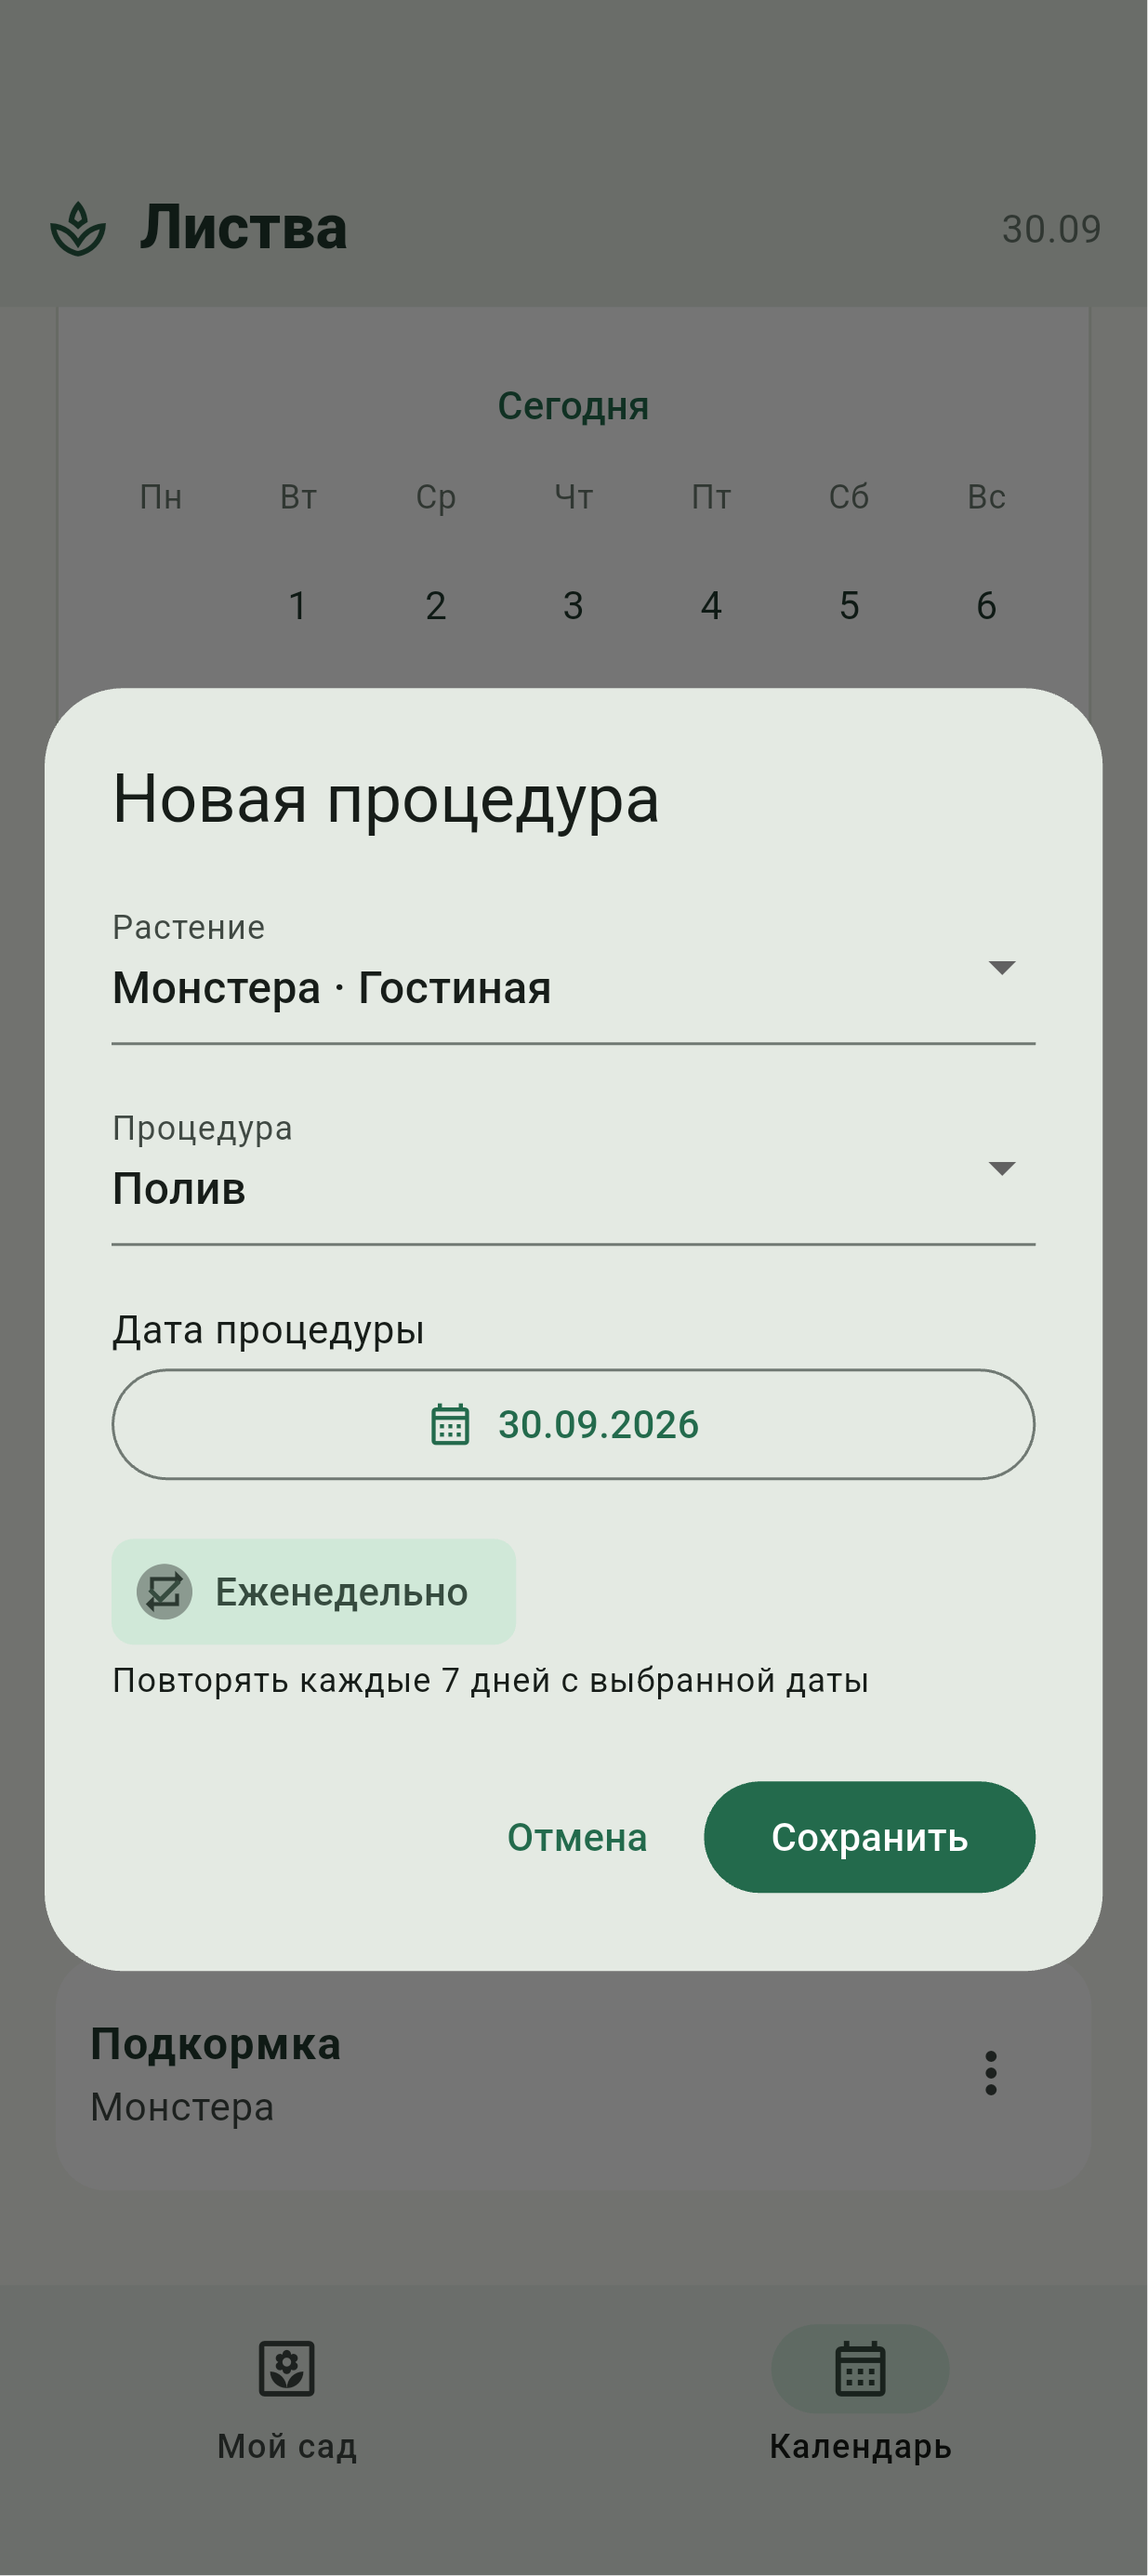
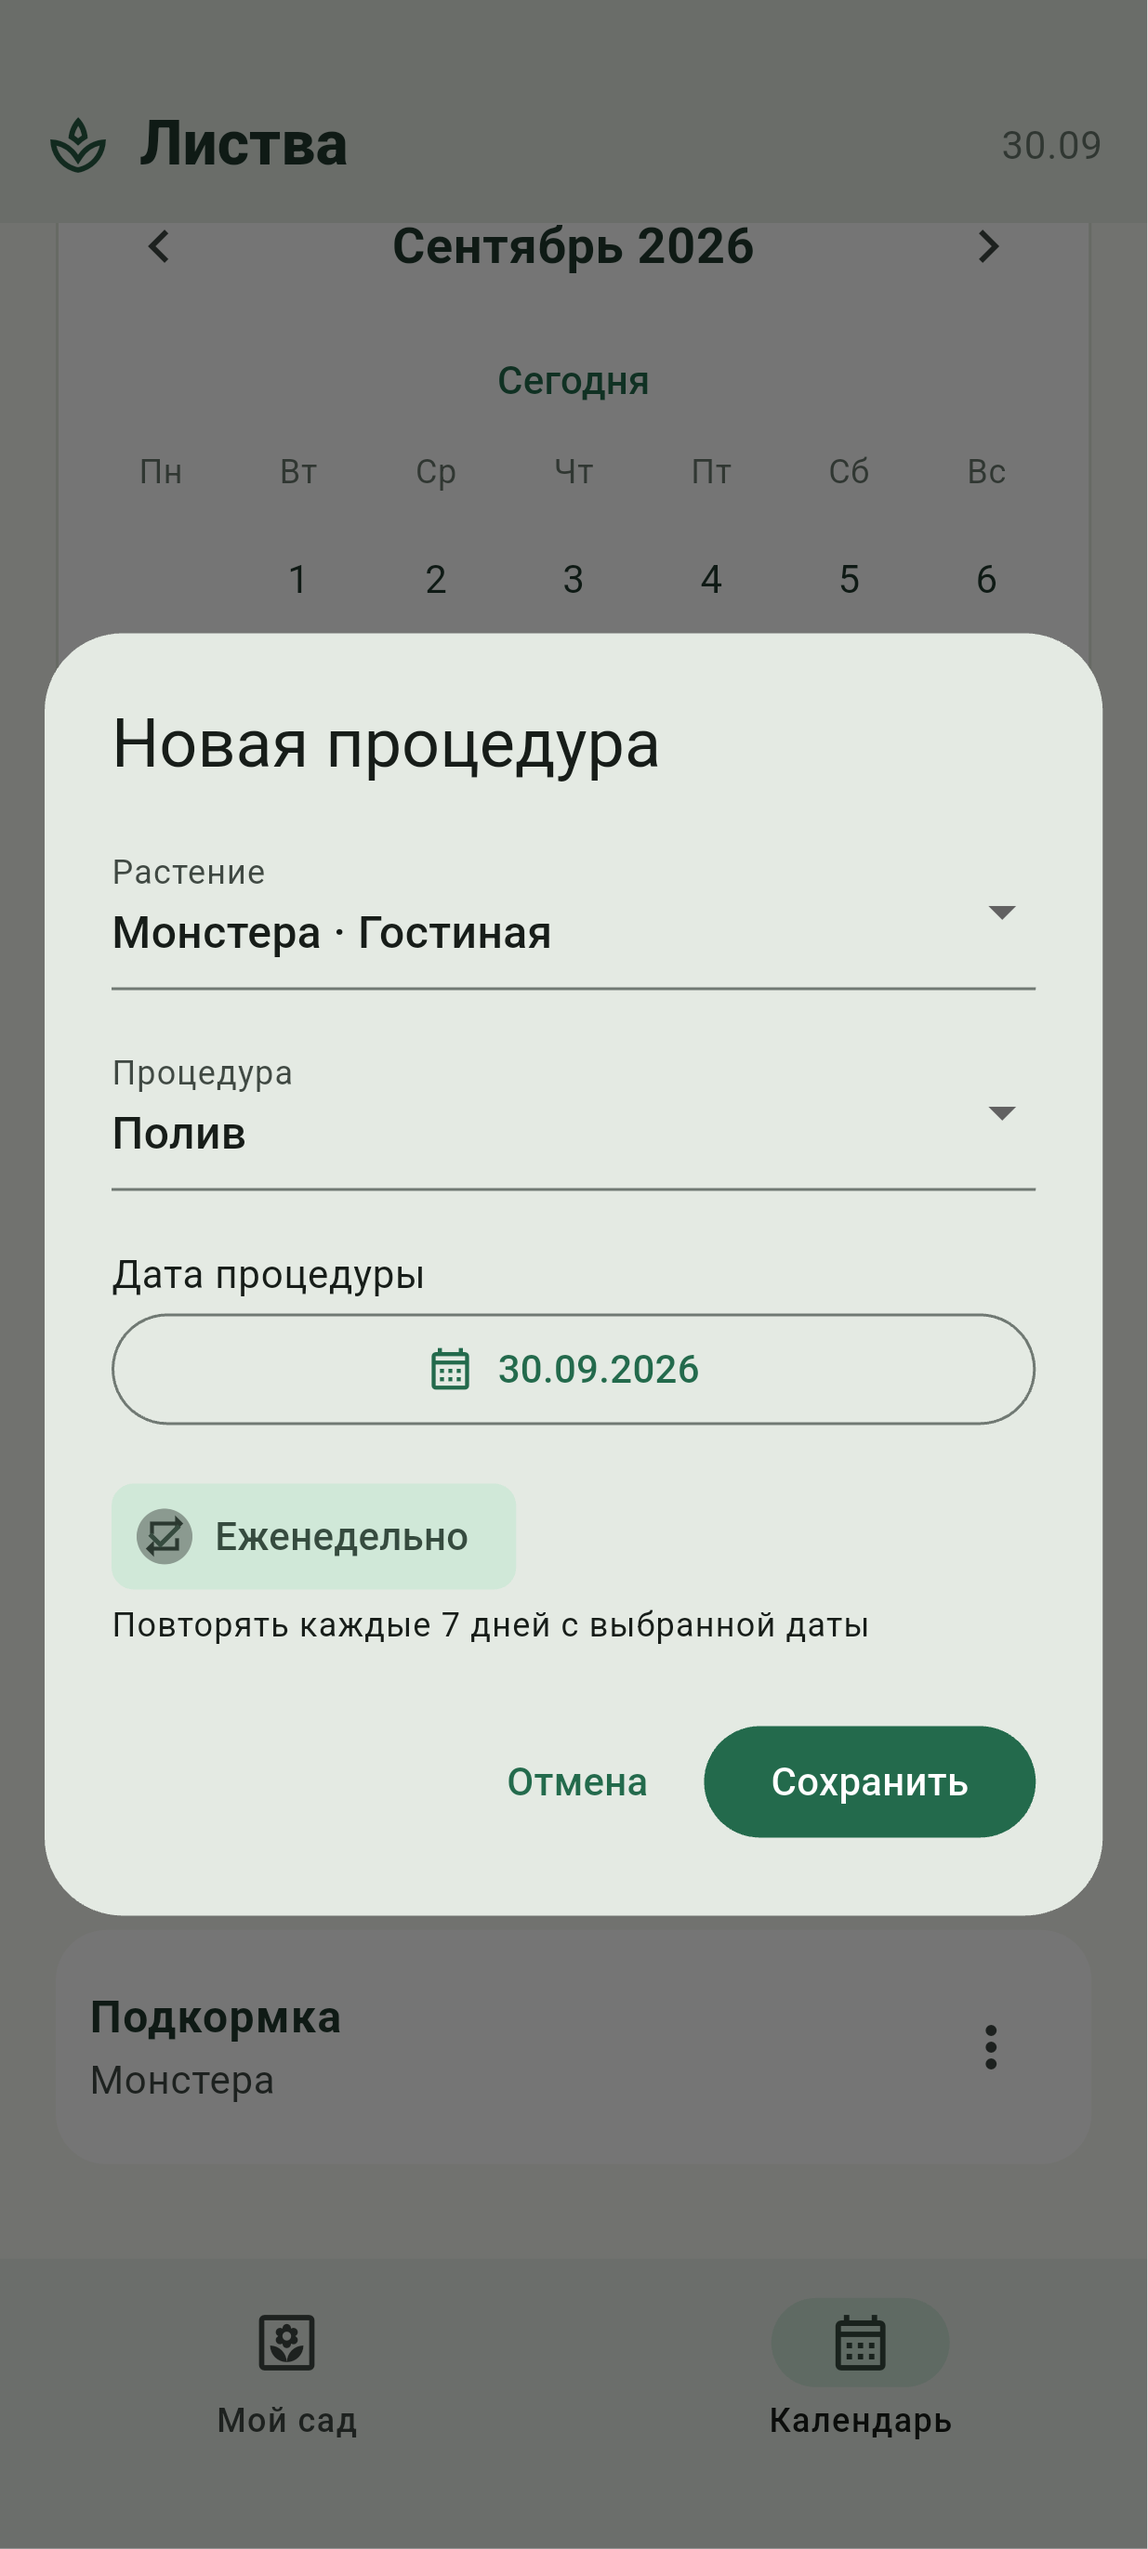
test: refresh lab 2 screenshots for manual care and label scanning

diff --git a/integration_test/lab2_demo_test.dart b/integration_test/lab2_demo_test.dart
@@ -80,12 +80,69 @@ void main() {
     await tap(find.byKey(const ValueKey('details-monstera')));
     debugPrint('SCENARIO: details');
     await shot('03_botanical_profile');
+    await tap(find.byTooltip('Назад'));
+    await tap(find.byKey(const ValueKey('add-plant')));
+    await tester.enterText(
+      find.byKey(const ValueKey('plant-name')),
+      'Аглаонема',
+    );
+    await tester.enterText(
+      find.byKey(const ValueKey('plant-species')),
+      'Aglaonema commutatum',
+    );
+    await tester.enterText(
+      find.byKey(const ValueKey('plant-room')),
+      'Гостиная',
+    );
+    final conditionsField = find.byKey(const ValueKey('plant-care-conditions'));
+    await tester.ensureVisible(conditionsField);
+    await tester.enterText(
+      conditionsField,
+      'Рассеянный свет. Повышенная влажность воздуха.',
+    );
+    FocusManager.instance.primaryFocus?.unfocus();
+    await SystemChannels.textInput.invokeMethod<void>('TextInput.hide');
+    await tester.pump(const Duration(milliseconds: 600));
+    await shot('04_manual_add');
+    await tap(find.byKey(const ValueKey('save-plant')));
+    final aglaonema = model.plants.singleWhere((p) => p.name == 'Аглаонема');
+    expect(
+      aglaonema.careConditions,
+      'Рассеянный свет. Повышенная влажность воздуха.',
+    );
+    await tap(find.byKey(ValueKey('plant-menu-${aglaonema.id}')));
+    await tap(find.text('Редактировать'));
+    expect(
+      tester.widget<TextFormField>(conditionsField).controller!.text,
+      aglaonema.careConditions,
+    );
+    await tester.ensureVisible(conditionsField);
+    await tester.enterText(
+      conditionsField,
+      'Рассеянный свет. Повышенная влажность воздуха. Беречь от прямых солнечных лучей.',
+    );
+    FocusManager.instance.primaryFocus?.unfocus();
+    await SystemChannels.textInput.invokeMethod<void>('TextInput.hide');
+    await tester.pump(const Duration(milliseconds: 600));
+    await shot('05_manual_edit');
+    await tap(find.byKey(const ValueKey('save-plant')));
+    await tap(find.byKey(ValueKey('details-${aglaonema.id}')));
+    expect(find.text('Сведения введены пользователем.'), findsOneWidget);
+    expect(
+      find.text(
+        'Рассеянный свет. Повышенная влажность воздуха. Беречь от прямых солнечных лучей.',
+      ),
+      findsOneWidget,
+    );
+    await shot('06_manual_profile');
+    await tap(find.byTooltip('Назад'));
+    await tap(find.byKey(const ValueKey('details-monstera')));
     await tap(find.text('Все'));
     await tester.drag(
       find.byType(SingleChildScrollView).first,
       const Offset(0, -350),
     );
-    await shot('04_care_history');
+    await shot('07_care_history');
     await tap(find.byKey(const ValueKey('record-care')));
     await tester.enterText(
       find.byType(TextField).last,
@@ -94,7 +151,7 @@ void main() {
     FocusManager.instance.primaryFocus?.unfocus();
     await SystemChannels.textInput.invokeMethod<void>('TextInput.hide');
     await tester.pump(const Duration(milliseconds: 600));
-    await shot('05_record_care');
+    await shot('08_record_care');
     await tap(find.widgetWithText(FilledButton, 'Сохранить'));
     expect(
       model.records
@@ -106,12 +163,12 @@ void main() {
       1,
     );
     await tap(find.text('Полив').first);
-    await shot('06_history_filter');
+    await shot('09_history_filter');
     await tap(find.byTooltip('Назад'));
     await tester.pump(const Duration(milliseconds: 500));
     debugPrint('SCENARIO: scan');
     await tap(find.byKey(const ValueKey('scan-label')));
-    await shot('07_label_sources');
+    await shot('10_label_sources');
     await tap(find.widgetWithText(ActionChip, 'Монстера'));
     for (
       var i = 0;
@@ -126,9 +183,9 @@ void main() {
       find.byType(SingleChildScrollView).first,
       const Offset(0, -260),
     );
-    await shot('08_label_result');
+    await shot('11_label_result');
     await tap(find.widgetWithText(FilledButton, 'Добавить в мои растения'));
-    expect(model.plants.length, 5);
+    expect(model.plants.length, 6);
     await tester.pumpWidget(const SizedBox.shrink());
     model.dispose();
   });
